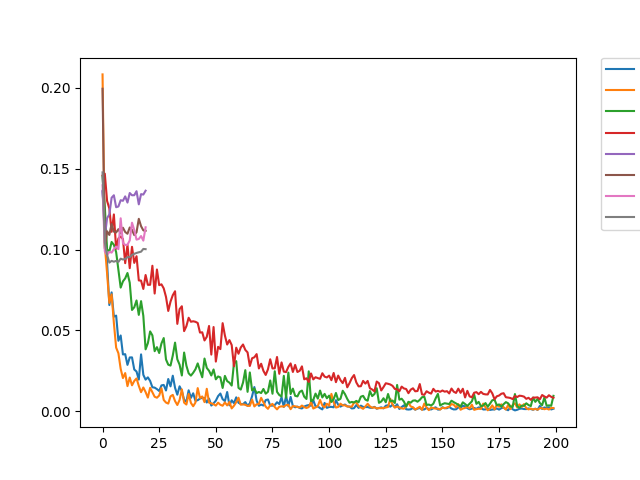
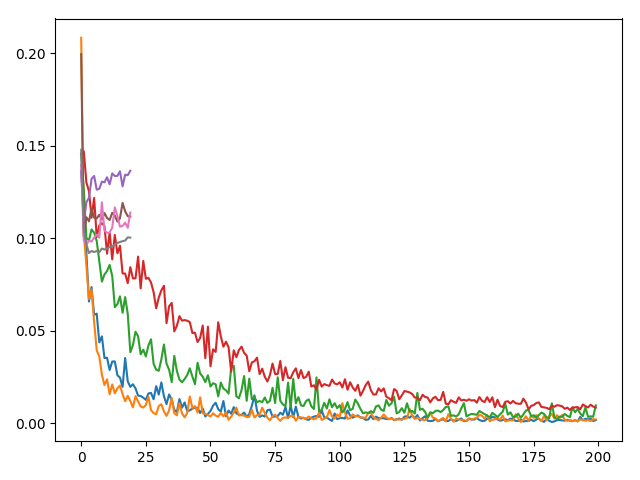
added stats

diff --git a/scripts/plot_sweep_stats.py b/scripts/plot_sweep_stats.py
@@ -60,7 +60,7 @@ if __name__ == '__main__':
 
     plt.legend(bbox_to_anchor=(1.05,1),loc=2,borderaxespad=0.)
     
-
+    plt.tight_layout()
     #plt.show()
     plt.savefig("train_loss.png")
     
@@ -69,7 +69,7 @@ if __name__ == '__main__':
 
     plt.legend(bbox_to_anchor=(1.05,1),loc=2,borderaxespad=0.)
 
-
+    plt.tight_layout()
     plt.savefig("test_loss.png")
 
 
